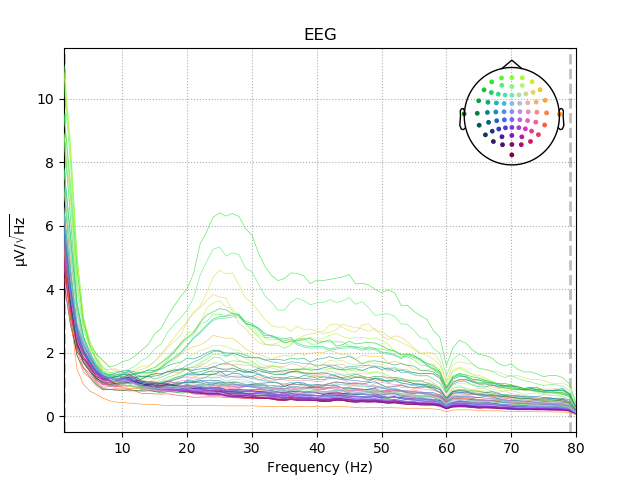
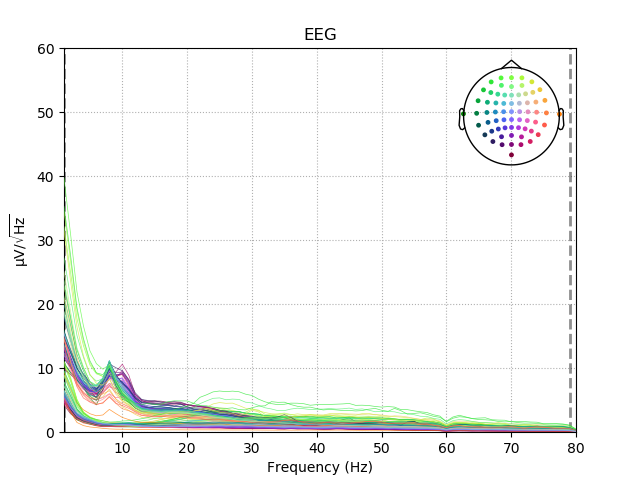
Fixed psd

diff --git a/preprocessing/S65_R04_08_12_ICA_template.py b/preprocessing/S65_R04_08_12_ICA_template.py
@@ -67,12 +67,14 @@ for subj in subjects:
     raw.set_montage(montage) #Setto il montaggio
     raw.filter(1.0, 79.0, fir_design='firwin', skip_by_annotation='edge') #Filtro
     raw_notch = raw.notch_filter(freqs=60) #Faccio un filtro passa banda
+    #todo: azzerare variabile
     plot_pre_psd = raw.plot_psd(area_mode=None, show=False, average=False, fmin =1.0, ax=plt.axes(ylim=(0,60)), fmax=80.0, dB=False, n_fft=160)
     psd_name = os.path.join(dir_pre_psd,'S'+ str(subj) + '_imagined_pre.png')
     if os.path.exists(psd_name):
      raise Exception('Warning! This plot already exists! :(' )
     plot_pre_psd.savefig(psd_name)
     # Ica
+    del plot_pre_psd
     ica = ICA(n_components=64, random_state=42, method="fastica", max_iter=1000)
 
     ind = []
@@ -84,10 +86,15 @@ for subj in subjects:
     ica.fit(raw)
     raws.append(raw)
     icas.append(ica)
+
+
+corrmap(icas, template=(0, 19), plot=True, threshold=0.80)
+icas[0].plot_properties(raws[0], picks=[26,29,34,44,47,49,51,53,55,56,58,59,63,60,61], dB=False)
+
 #%%
 #eog_inds, eog_scores = icas[0].find_bads_eog(raws[0], ch_name='Fpz')
 #icas[0].plot_properties(raws[0], picks=[], dB=False)
-exc_0 = [0,1,3,4,9,11,14,15,19,26,29,34,44,47,49,51,53,55,56,58,59,63,60,61]
+exc_0 = [0,3,9,11,14,15,19,26,29,34,44,47,49,51,53,55,56,58,59,63,60,61]
 maybe = [ 7,12,23,24,40]
 #reconst_raw = raws[0].copy()
 #icas[0].plot_overlay(reconst_raw, exclude=exc_0)
